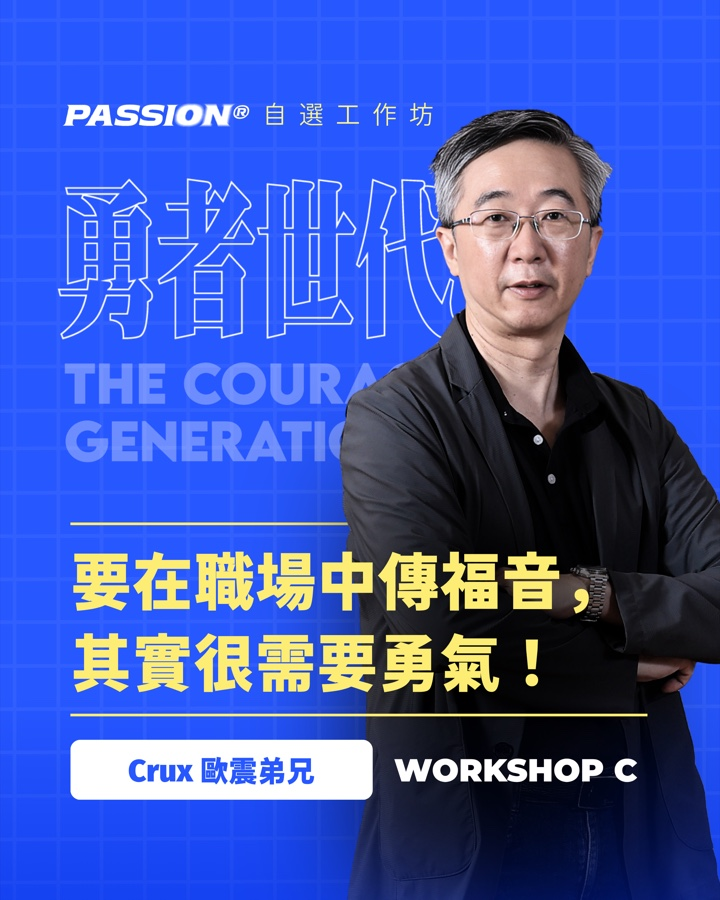
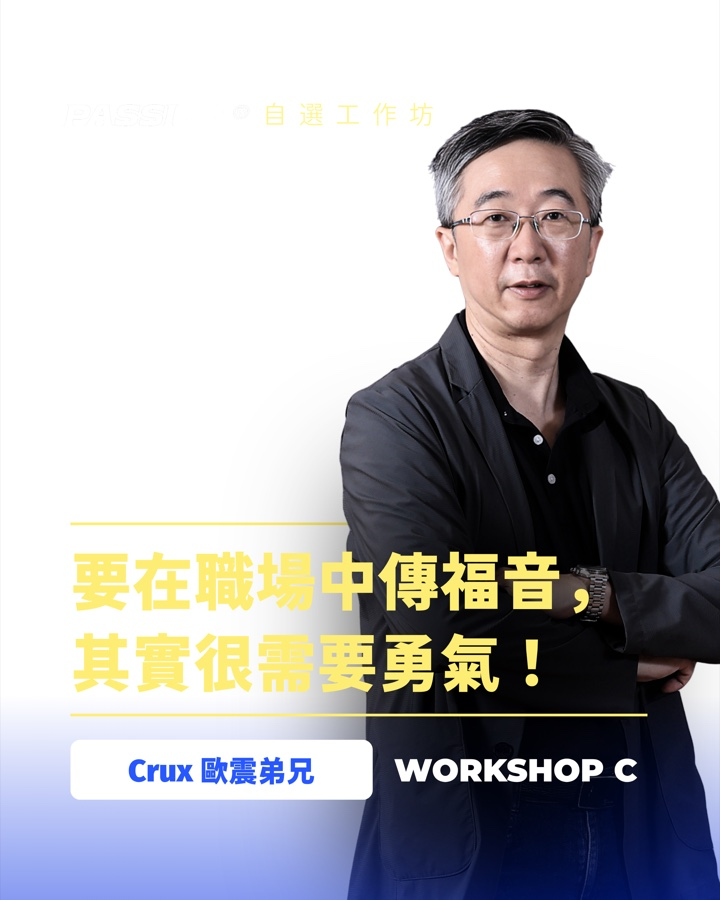
feat(conference): 工作坊照片換成去背版本，疊在液態玻璃框上
新版海報底色從藍色換成白／淺紫漸層，跟頁面藍色背景區隔開來。玻璃
方框改成留一圈內距當畫框，照片用內層 rounded-2xl 疊在中間，玻璃
邊框透出來的效果更明顯。

diff --git a/components/conference-mission-home.tsx b/components/conference-mission-home.tsx
@@ -66,9 +66,9 @@ export function ConferenceMissionHome({
             className="h-auto w-[70%]"
           />
 
-          {/* 工作坊方框先做成液態玻璃質感（半透明底＋backdrop-blur＋內緣高光），
-              照片去背後會疊在玻璃上面，玻璃本身要先能在任何背景上都看起來
-              通透，所以這裡不放海報圖。點卡片彈出視窗顯示介紹，不跳頁。
+          {/* 工作坊方框是液態玻璃質感（半透明底＋backdrop-blur＋內緣高光）當畫框，
+              去背後的照片（白／淺紫底）疊在中間，畫框留一圈玻璃邊框透出來。
+              點卡片彈出視窗顯示介紹，不跳頁。
               overscroll-x-contain：滑到這排的頭尾邊界時，捲動不會「溢出」去觸發
               App 外層的返回手勢（iOS／Android 邊緣滑動＝返回），滑動效果留在這排裡面。 */}
           <div
@@ -81,9 +81,13 @@ export function ConferenceMissionHome({
                 type="button"
                 onClick={() => setActiveWorkshopId(workshop.id)}
                 aria-label={workshop.topic || workshop.speaker}
-                className="relative aspect-[4/5] w-[118px] shrink-0 overflow-hidden rounded-3xl border border-white/50 bg-white/20 shadow-[inset_0_1px_1px_rgba(255,255,255,0.7),0_1px_4px_rgba(0,0,0,0.12)] backdrop-blur-md sm:w-[151px]"
+                className="aspect-[4/5] w-[118px] shrink-0 rounded-3xl border border-white/50 bg-white/20 p-2 shadow-[inset_0_1px_1px_rgba(255,255,255,0.7),0_1px_4px_rgba(0,0,0,0.12)] backdrop-blur-md sm:w-[151px]"
                 style={{ scrollSnapAlign: "start" }}
-              />
+              >
+                <div className="relative h-full w-full overflow-hidden rounded-2xl">
+                  <Image src={workshop.image} alt="" fill sizes="151px" className="object-cover" />
+                </div>
+              </button>
             ))}
           </div>
 
